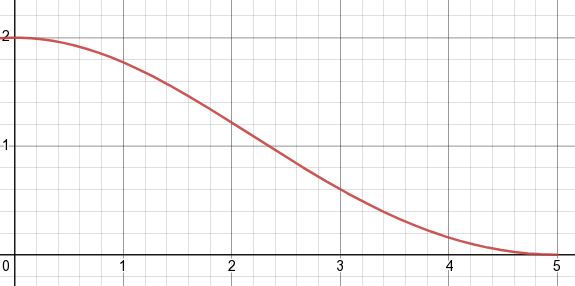
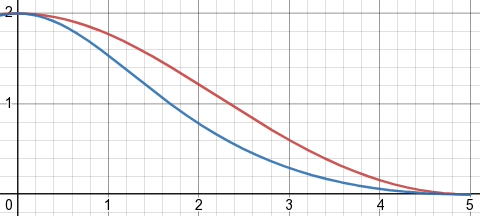
Add cusped version & falloff control

Changed region(s): [[0.0, 0.0, 1.0, 1.0]]

diff --git a/_posts/2022-07-30-point-light-attenuation.md b/_posts/2022-07-30-point-light-attenuation.md
@@ -63,13 +63,19 @@ So, I set off to find a different formula that
 
 What I came up with looks incredibly simple:
 
-<center><img src="https://latex.codecogs.com/png.latex?%5Cdpi%7B120%7D%20%5Clarge%20A%5Cfrac%7B%281-s%5E2%29%5E2%7D%7B1&plus;s%5E2%7D"></center><br/>
+<center><img src="https://latex.codecogs.com/png.latex?%5Cdpi%7B120%7D%20%5Clarge%20A%5Cfrac%7B%281-s%5E2%29%5E2%7D%7B1&plus;Fs%5E2%7D"></center><br/>
 
-where <img src="https://latex.codecogs.com/png.latex?%5Cdpi%7B120%7D%20%5Clarge%20s%3D%5Cfrac%7Bd%7D%7BR%7D"> is the normalized distance. It allows to separately control the maximum intensity A and the maximum radius R. You can play with this formula [here](https://www.desmos.com/calculator/zemezoyn1c). It is also fast to compute, since it doesn't use square roots, exponents, and other stuff, just a bit of arithmetic. Here's how it looks like for A = 2 and R = 5:
+where <img src="https://latex.codecogs.com/png.latex?%5Cdpi%7B120%7D%20%5Clarge%20s%3D%5Cfrac%7Bd%7D%7BR%7D"> is the normalized distance, and F allows you to control how fast it decays. It allows to separately control the maximum intensity A and the maximum radius R. You can play with this formula [here](https://www.desmos.com/calculator/zemezoyn1c). It is also fast to compute, since it doesn't use square roots, exponents, and other stuff, just a bit of arithmetic. Here's how it looks like for A = 2, R = 5, F = 1 (red) and F = 4 (blue):
 
 <center><img src="{{site.url}}/blog/media/light/plot4.png"></center><br/>
 
-For distances less than R/2 this function looks about the same as <img src="https://latex.codecogs.com/png.latex?%5Cdpi%7B120%7D%20%5Clarge%20%5Cfrac%7BA%7D%7B1&plus;4%28%5Cfrac%7Bd%7D%7BR%7D%29%5E2%7D">, while for larger values it gradually goes to zero and is exactly zero at distance R. Note that it doesn't have a sharp cusp at d = 0, for artistic reasons: I want the attenuation to behave roughly like a spherical area light source near the light.
+For distances less than R/2 this function looks about the same as <img src="https://latex.codecogs.com/png.latex?%5Cdpi%7B120%7D%20%5Clarge%20%5Cfrac%7BA%7D%7B1&plus;4%28%5Cfrac%7Bd%7D%7BR%7D%29%5E2%7D">, while for larger values it gradually goes to zero and is exactly zero at distance R. Note that it doesn't have a sharp cusp at d = 0, which can be for an artistic reason of wanting the attenuation to behave roughly like a spherical area light source near the light. For a version with cusp (which I'm actually using), you can simply remove the square in the denominator:
+
+<center><img src="https://latex.codecogs.com/png.latex?%5Cdpi%7B120%7D%20%5Clarge%20A%5Cfrac%7B%281-s%5E2%29%5E2%7D%7B1&plus;Fs%7D"></center>
+
+Here's how it looks like for the same values of A = 2, R = 5, F = 1 (red) and F = 4 (blue):
+
+<center><img src="{{site.url}}/blog/media/light/plot5.png"></center><br/>
 
 For the sake of completeness, here's a GLSL implementation. Note that we need to check for d < R, otherwise we'd get wrong lightness values at larger distances.
 
@@ -79,7 +85,7 @@ float sqr(float x)
 	return x * x;
 }
 
-float attenuate(float distance, float radius, float max_intensity)
+float attenuate_no_cusp(float distance, float radius, float max_intensity, float falloff)
 {
 	float s = distance / radius;
 
@@ -88,7 +94,19 @@ float attenuate(float distance, float radius, float max_intensity)
 
 	float s2 = sqr(s);
 
-	return max_intensity * sqr(1 - s2) / (1 + s2);
+	return max_intensity * sqr(1 - s2) / (1 + falloff * s2);
+}
+
+float attenuate_cusp(float distance, float radius, float max_intensity, float falloff)
+{
+	float s = distance / radius;
+
+	if (s >= 1.0)
+		return 0.0;
+
+	float s2 = sqr(s);
+
+	return max_intensity * sqr(1 - s2) / (1 + falloff * s);
 }
 ```
 
